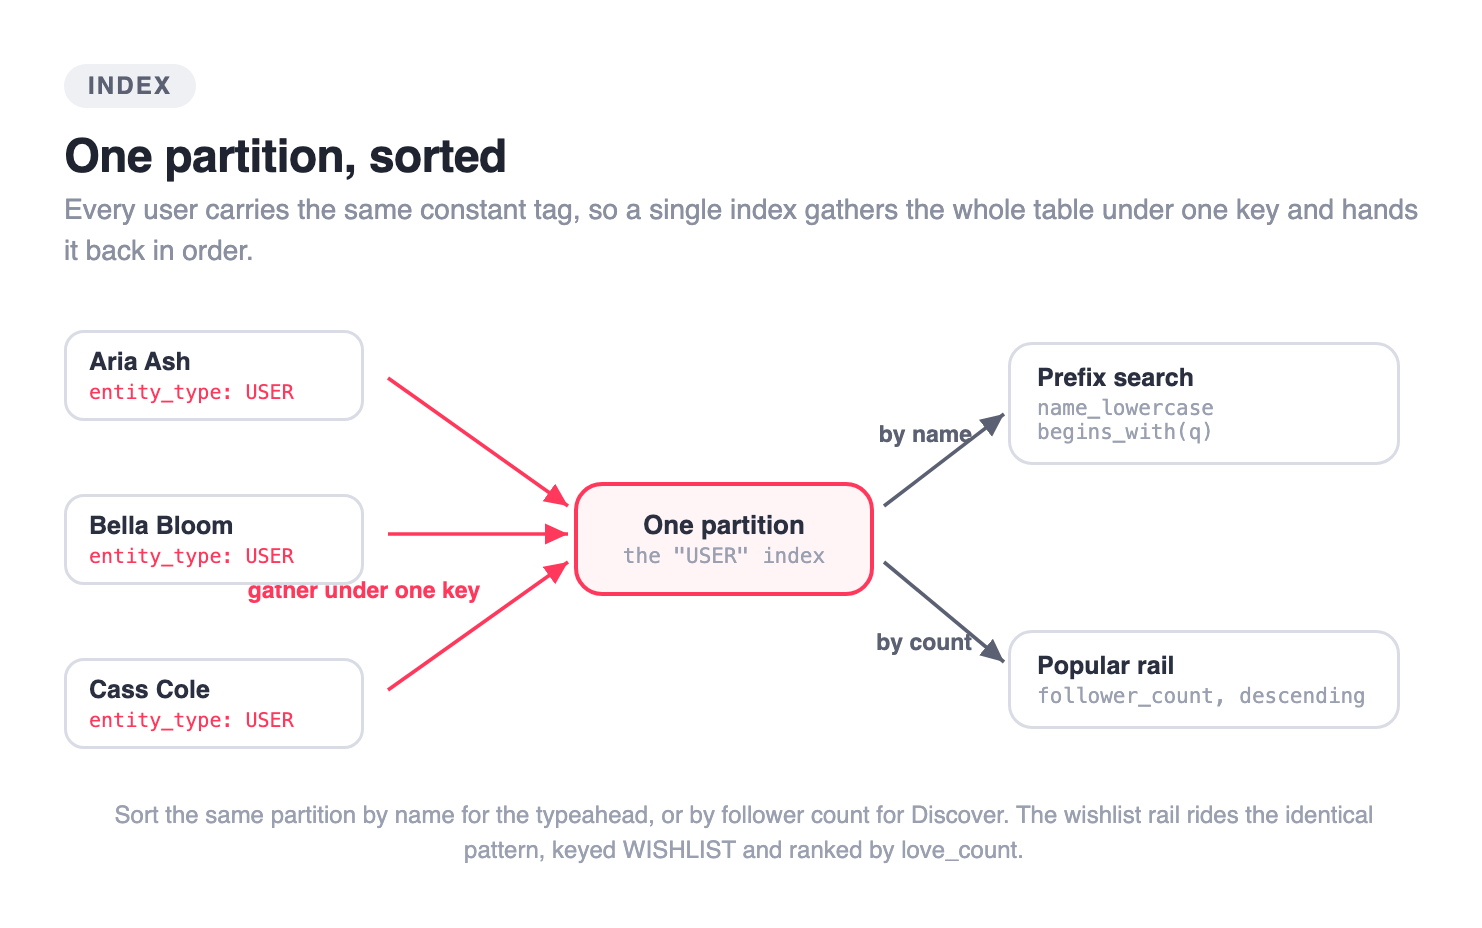
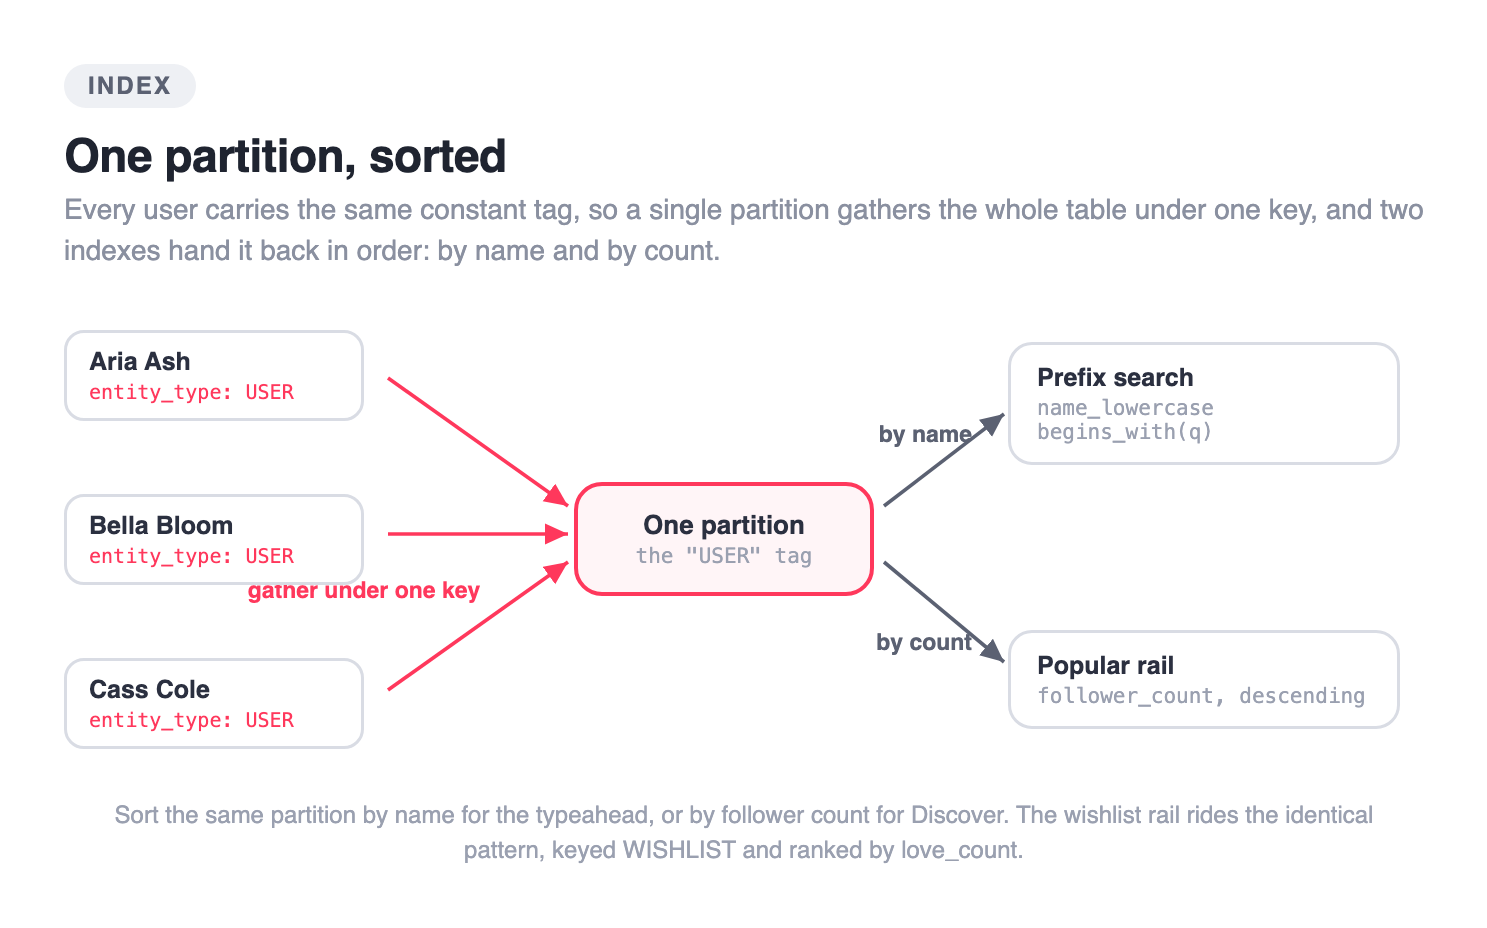
content(10-social): fix index figure's one-index framing to the two-index truth
The "One partition, sorted" figure (mocks-10-index.png) still asserted a
single index in two places, contradicting dynamodb.tf: NameSearchIndex
(range name_lowercase) and PopularUsersIndex (range follower_count) are two
separate GSIs sharing the constant entity_type="USER" partition.

- img-10-index.html subtitle: "a single index gathers the whole table ...
  hands it back in order" -> "a single partition gathers ... and two indexes
  hand it back in order: by name and by count".
- img-10-index.html central node: the "USER" index -> the "USER" tag.
- medium/10-social.md + .html fig alt/figcaption (byte-identical mirror):
  "a single index gathers them all ... sorted by its range key" ->
  "that one shared tag gathers them all ... and two indexes keep them sorted
  by their range keys".
- Re-rendered mocks-10-index.png (2x, transparent, trim + 64px border).

Class sweep of all step-10 mock sources (filemap, access, follow, index,
hero-10, code cards) and the article's figure alts/captions found no other
index/partition conflation or singular/plural claim contradicted by
dynamodb.tf. Parity unchanged: 12 h2, 18 img, alts byte-identical.

diff --git a/medium/10-social.html b/medium/10-social.html
@@ -60,7 +60,7 @@ font-size:15px;font-family:-apple-system,sans-serif;color:#7a6a00}
 <figure><a href="https://github.com/srivardhanjalan/kivan-tutorial/blob/main/10-social/infra/dynamodb.tf"><img src="https://raw.githubusercontent.com/srivardhanjalan/kivan-tutorial/main/mocks/mocks-10-code-index.png?v=PLACEHOLDER" alt="dynamodb.tf: every user carries a constant entity_type, and two GSIs hash on it, one ranged by name_lowercase for prefix search and one by follower_count for the popular rail"></a><figcaption><a class="src" href="https://github.com/srivardhanjalan/kivan-tutorial/blob/main/10-social/infra/dynamodb.tf">dynamodb.tf: every user carries a constant entity_type, and two GSIs hash on it, one ranged by name_lowercase for prefix search and one by follower_count for the popular rail ↗</a></figcaption></figure>
 <p>The search route is then a single query, capped and prefix-matched, never a scan. An empty box returns nothing at all and the screen shows the rails instead, so a blank query never turns into &quot;read everyone&quot;.</p>
 <figure><a href="https://github.com/srivardhanjalan/kivan-tutorial/blob/main/10-social/backend/app/routes/users.py"><img src="https://raw.githubusercontent.com/srivardhanjalan/kivan-tutorial/main/mocks/mocks-10-code-search.png?v=PLACEHOLDER" alt="users.py: search is a prefix query on NameSearchIndex, all users under the USER partition and name_lowercase the sort key, capped and never a Scan"></a><figcaption><a class="src" href="https://github.com/srivardhanjalan/kivan-tutorial/blob/main/10-social/backend/app/routes/users.py">users.py: search is a prefix query on NameSearchIndex, all users under the USER partition and name_lowercase the sort key, capped and never a Scan ↗</a></figcaption></figure>
-<figure><img src="https://raw.githubusercontent.com/srivardhanjalan/kivan-tutorial/main/mocks/mocks-10-index.png?v=PLACEHOLDER" alt="The constant-partition index: every user record is stamped entity_type USER, so a single index gathers them all under one partition and keeps them sorted by its range key, turning all users, in name order into one prefix query and all users, most followed first into one descending query"><figcaption>The constant-partition index: every user record is stamped entity_type USER, so a single index gathers them all under one partition and keeps them sorted by its range key, turning all users, in name order into one prefix query and all users, most followed first into one descending query</figcaption></figure>
+<figure><img src="https://raw.githubusercontent.com/srivardhanjalan/kivan-tutorial/main/mocks/mocks-10-index.png?v=PLACEHOLDER" alt="The constant-partition pattern: every user record is stamped entity_type USER, so that one shared tag gathers them all under one partition, and two indexes keep them sorted by their range keys, turning all users, in name order into one prefix query and all users, most followed first into one descending query"><figcaption>The constant-partition pattern: every user record is stamped entity_type USER, so that one shared tag gathers them all under one partition, and two indexes keep them sorted by their range keys, turning all users, in name order into one prefix query and all users, most followed first into one descending query</figcaption></figure>
 <p>One honest caveat: a single constant partition is a hot partition, and at a very large scale you would spread the tag across a handful of shards. At this app&#x27;s scale the whole index is small and the read is cheap, so we keep the one partition and note where it would bend. The wishlist rail rides the identical pattern, <code>entity_type = &quot;WISHLIST&quot;</code> ranked by <code>love_count</code>, so Discover&#x27;s two rails and its search are one idea used three times.</p>
 <p>There is a sharp edge hiding in <code>name_lowercase</code> that a real signup found the hard way, and it waits for the scars at the end. For now the index exists and the search is fast. Next the app needs edges to search across: who follows whom.</p>
 <h2>Follow once, count forever</h2>

diff --git a/mocks/img-10-index.html b/mocks/img-10-index.html
@@ -27,7 +27,7 @@
 <div class="card">
   <span class="k">Index</span>
   <h1>One partition, sorted</h1>
-  <p class="sub">Every user carries the same constant tag, so a single index gathers the whole table under one key and hands it back in order.</p>
+  <p class="sub">Every user carries the same constant tag, so a single partition gathers the whole table under one key, and two indexes hand it back in order: by name and by count.</p>
   <div class="stage">
     <svg class="wires" viewBox="0 0 680 236">
       <defs>
@@ -46,7 +46,7 @@
     <div class="rec" style="left:0;top:16px"><div class="n">Aria Ash</div><div class="tag">entity_type: USER</div></div>
     <div class="rec" style="left:0;top:98px"><div class="n">Bella Bloom</div><div class="tag">entity_type: USER</div></div>
     <div class="rec" style="left:0;top:180px"><div class="n">Cass Cole</div><div class="tag">entity_type: USER</div></div>
-    <div class="part" style="left:255px;top:92px"><div class="t">One partition</div><div class="s">the "USER" index</div></div>
+    <div class="part" style="left:255px;top:92px"><div class="t">One partition</div><div class="s">the "USER" tag</div></div>
     <div class="out" style="left:472px;top:22px"><div class="t">Prefix search</div><div class="s">name_lowercase begins_with(q)</div></div>
     <div class="out" style="left:472px;top:166px"><div class="t">Popular rail</div><div class="s">follower_count, descending</div></div>
   </div>

diff --git a/medium/10-social.md b/medium/10-social.md
@@ -74,7 +74,7 @@ The search route is then a single query, capped and prefix-matched, never a scan
 
 [![users.py: search is a prefix query on NameSearchIndex, all users under the USER partition and name_lowercase the sort key, capped and never a Scan](https://raw.githubusercontent.com/srivardhanjalan/kivan-tutorial/main/mocks/mocks-10-code-search.png?v=PLACEHOLDER)](https://github.com/srivardhanjalan/kivan-tutorial/blob/main/10-social/backend/app/routes/users.py)
 
-![The constant-partition index: every user record is stamped entity_type USER, so a single index gathers them all under one partition and keeps them sorted by its range key, turning all users, in name order into one prefix query and all users, most followed first into one descending query](https://raw.githubusercontent.com/srivardhanjalan/kivan-tutorial/main/mocks/mocks-10-index.png?v=PLACEHOLDER)
+![The constant-partition pattern: every user record is stamped entity_type USER, so that one shared tag gathers them all under one partition, and two indexes keep them sorted by their range keys, turning all users, in name order into one prefix query and all users, most followed first into one descending query](https://raw.githubusercontent.com/srivardhanjalan/kivan-tutorial/main/mocks/mocks-10-index.png?v=PLACEHOLDER)
 
 One honest caveat: a single constant partition is a hot partition, and at a very large scale you would spread the tag across a handful of shards. At this app's scale the whole index is small and the read is cheap, so we keep the one partition and note where it would bend. The wishlist rail rides the identical pattern, `entity_type = "WISHLIST"` ranked by `love_count`, so Discover's two rails and its search are one idea used three times.
 
